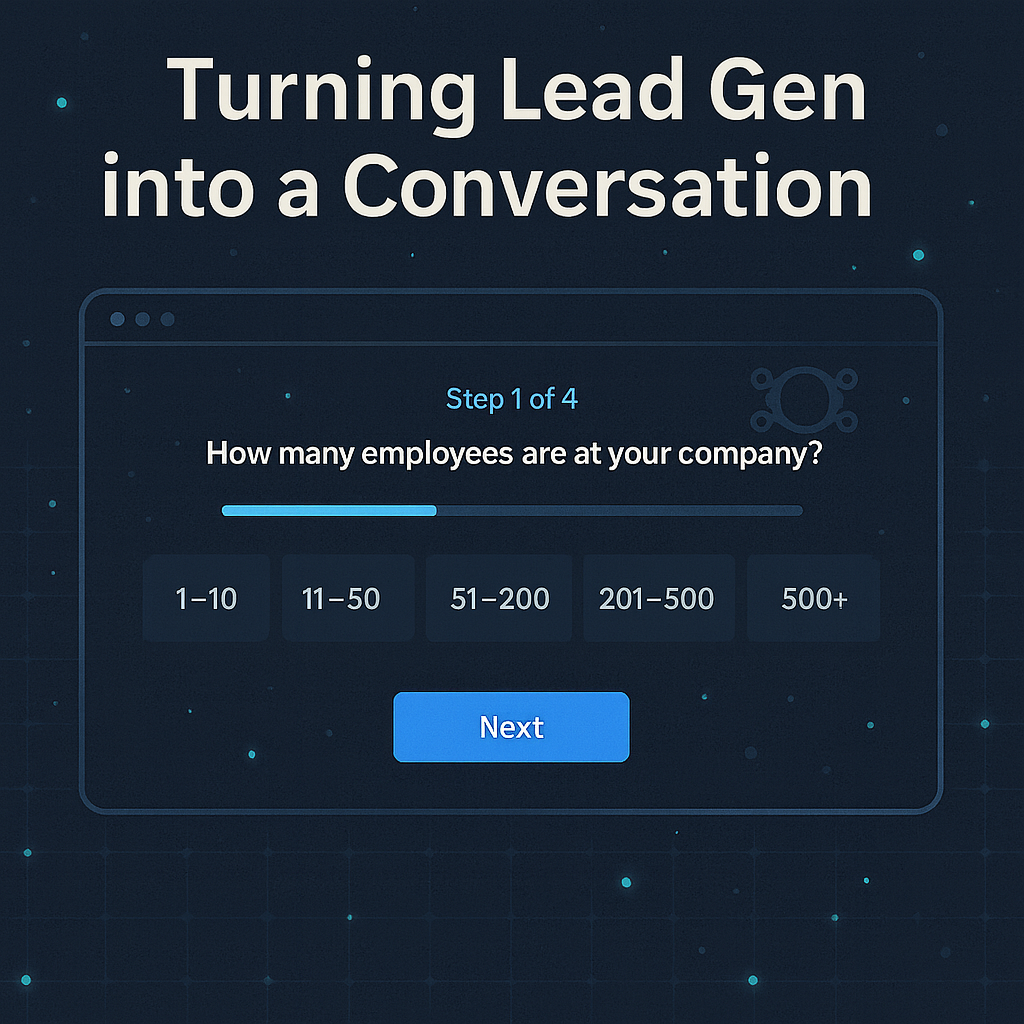
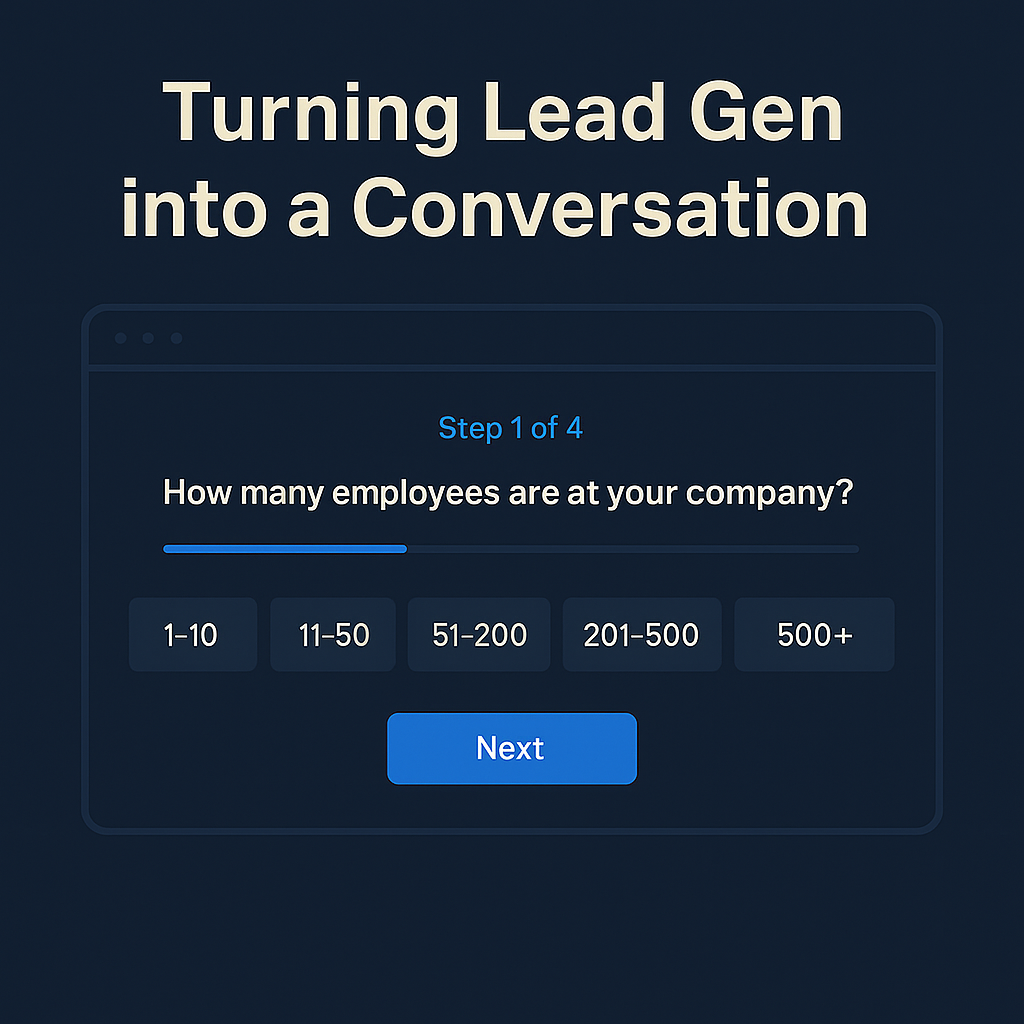
new post updates

diff --git a/docs/assets/css/style.scss b/docs/assets/css/style.scss
@@ -413,6 +413,12 @@ nav {
 .tag-invoice           { background: #fff7e6; color: #b26a00; }
 .tag-finance           { background: #e0f2f1; color: #00695c; }
 .tag-transformation    { background: #f3e8ff; color: #7c3aed; }
+.tag-lead-generation      { background: #e0f7fa; color: #0277bd; }
+.tag-interactive-forms   { background: #f3e8ff; color: #7c3aed; }
+.tag-edge                { background: #e6f0fa; color: #2563eb; }
+.tag-workers             { background: #fef9c3; color: #a16207; }
+.tag-ux                  { background: #ffe4e6; color: #be123c; }
+.tag-marketing-automation { background: #e7f9f1; color: #22795d; }
 
 .post-separator {
   border: none;
@@ -674,6 +680,48 @@ footer {
   }
   .post-tags {
     margin-bottom: 2em; // Increase as needed for more space below tags
+  }
+}
+
+/* Modern table styling for blog posts */
+.post table {
+  width: 100%;
+  border-collapse: separate;
+  border-spacing: 0;
+  margin: 2em 0;
+  background: #f9fafb;
+  border-radius: 8px;
+  overflow: hidden;
+  box-shadow: 0 2px 8px rgba(37,99,235,0.05);
+}
+
+.post th, .post td {
+  padding: 14px 18px;
+  text-align: left;
+  border-bottom: 1px solid #e5e7eb;
+}
+
+.post th {
+  background: #2563eb;
+  color: #fff;
+  font-weight: 600;
+  font-size: 1em;
+  letter-spacing: 0.02em;
+}
+
+.post tr:last-child td {
+  border-bottom: none;
+}
+
+.post td {
+  font-size: 1em;
+  color: #222;
+}
+
+@media (max-width: 600px) {
+  .post table, .post th, .post td {
+    font-size: 0.95em;
+    padding: 10px 8px;
   }
 }
 
